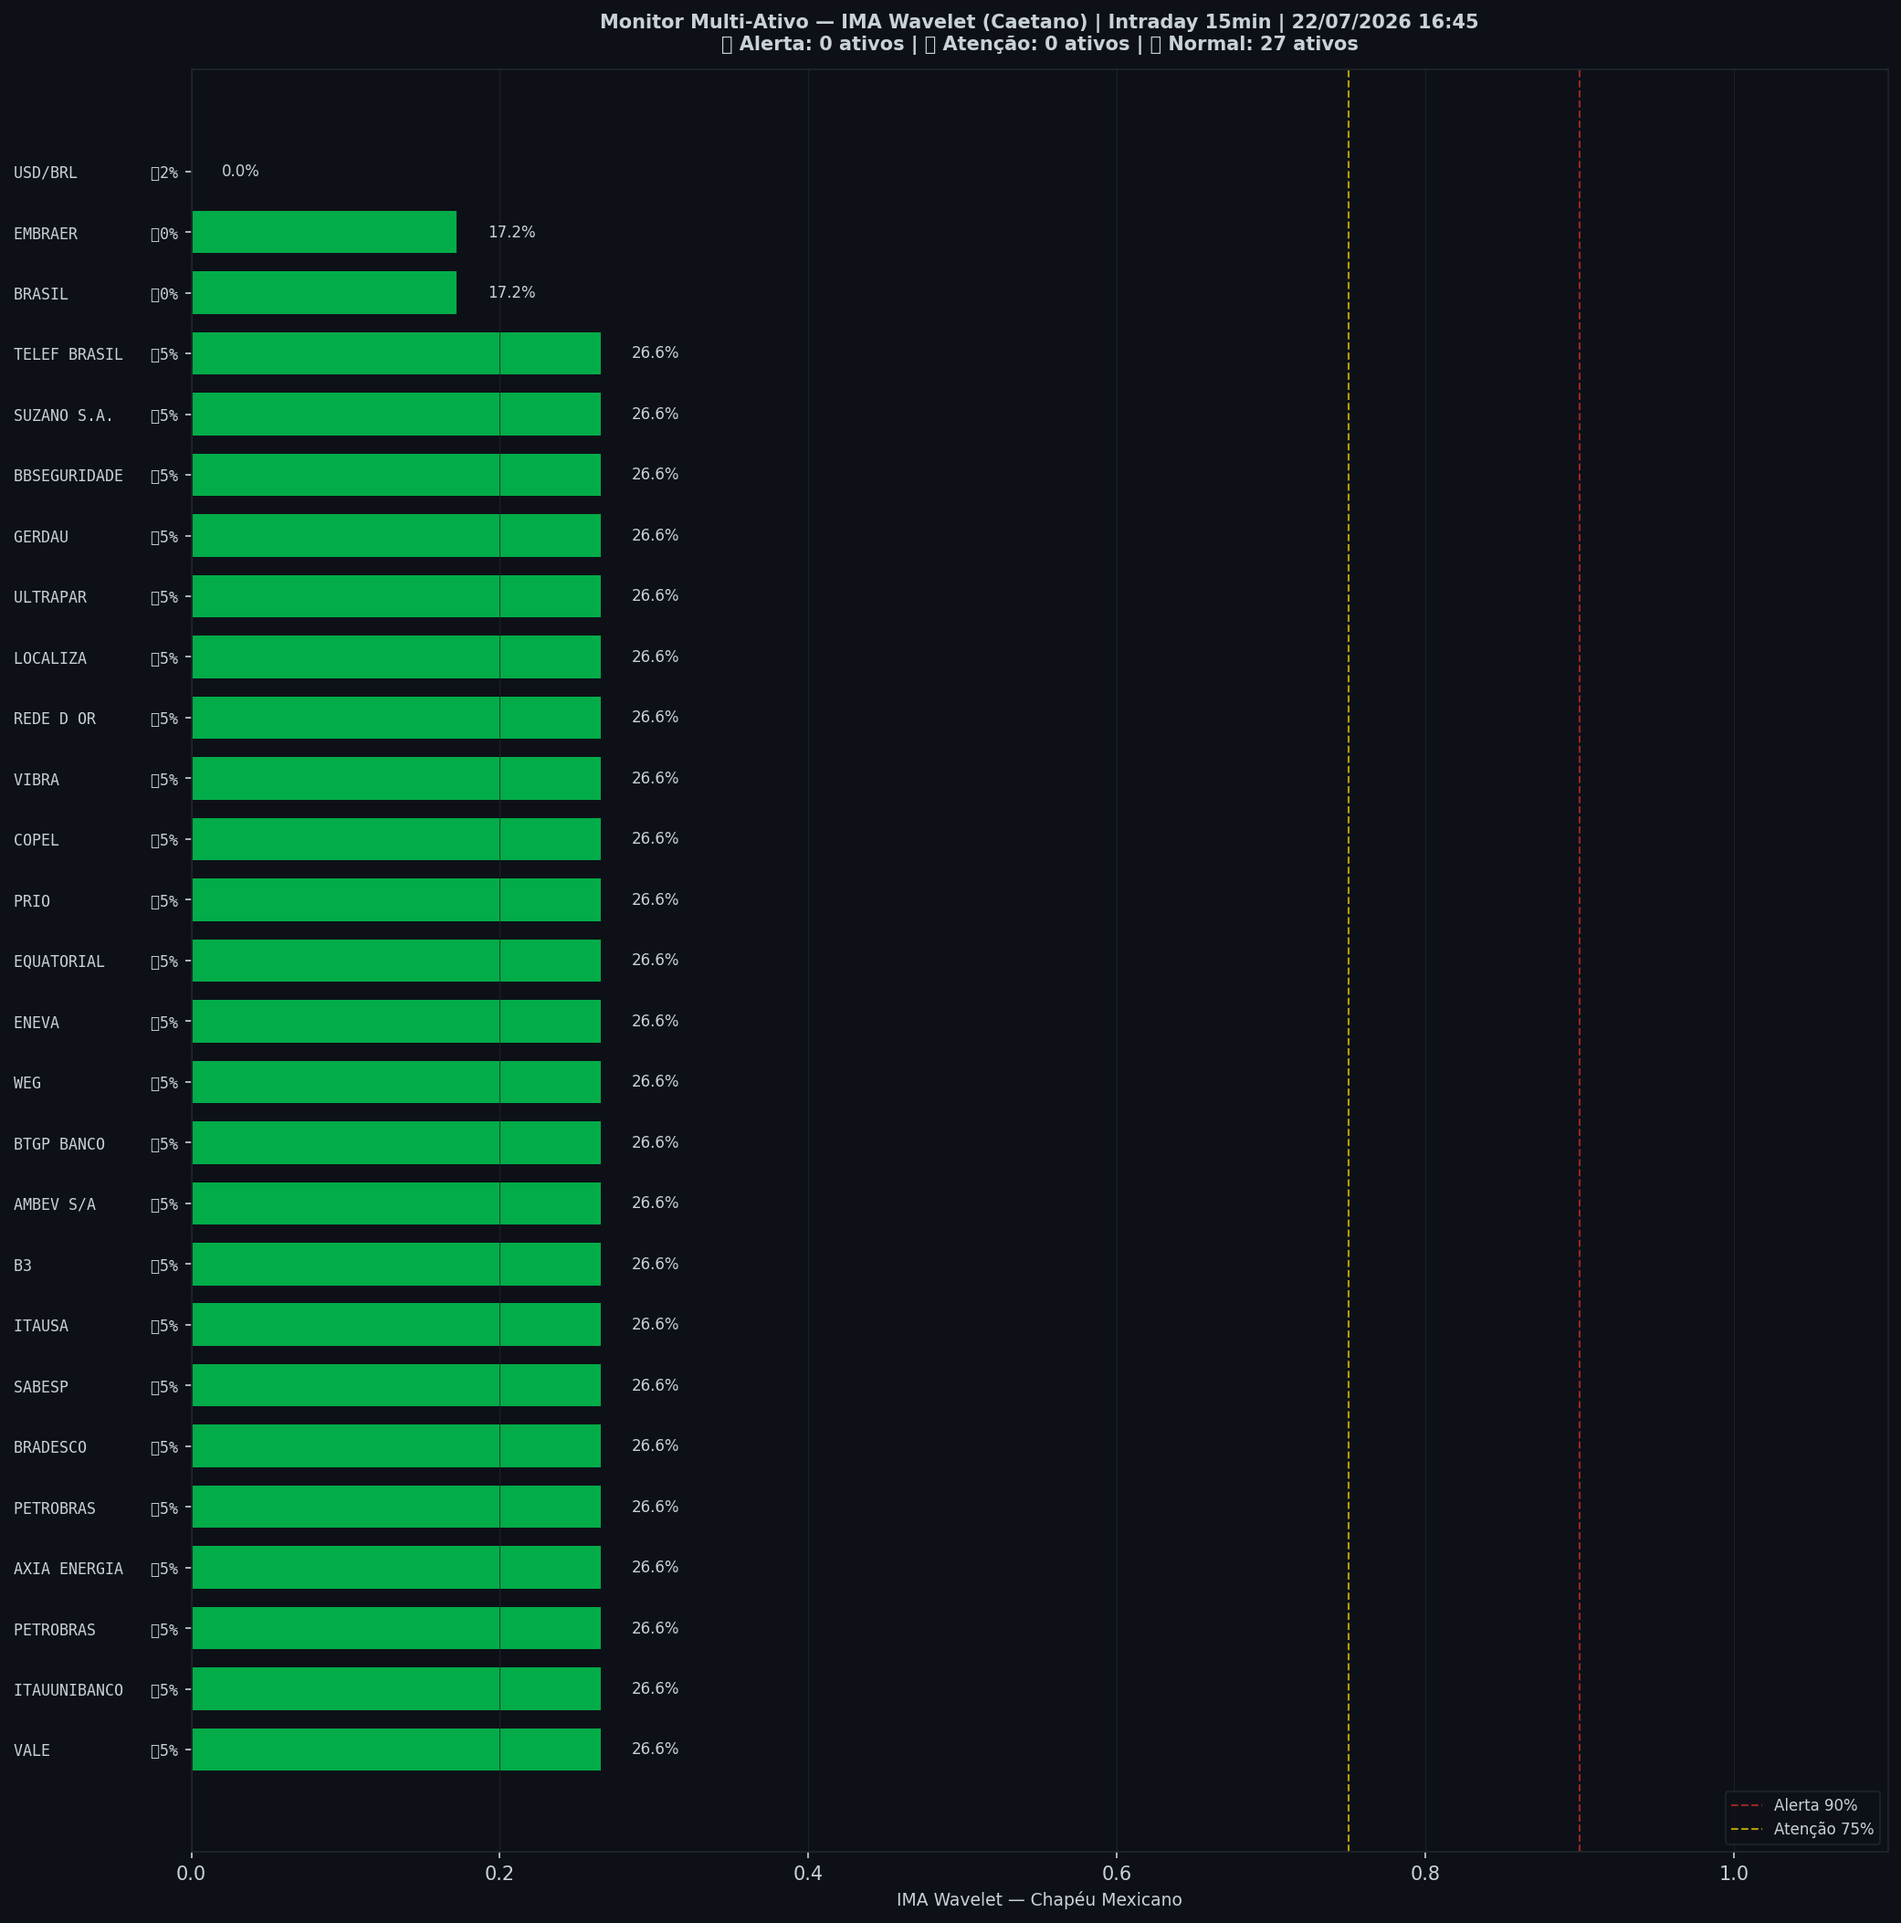
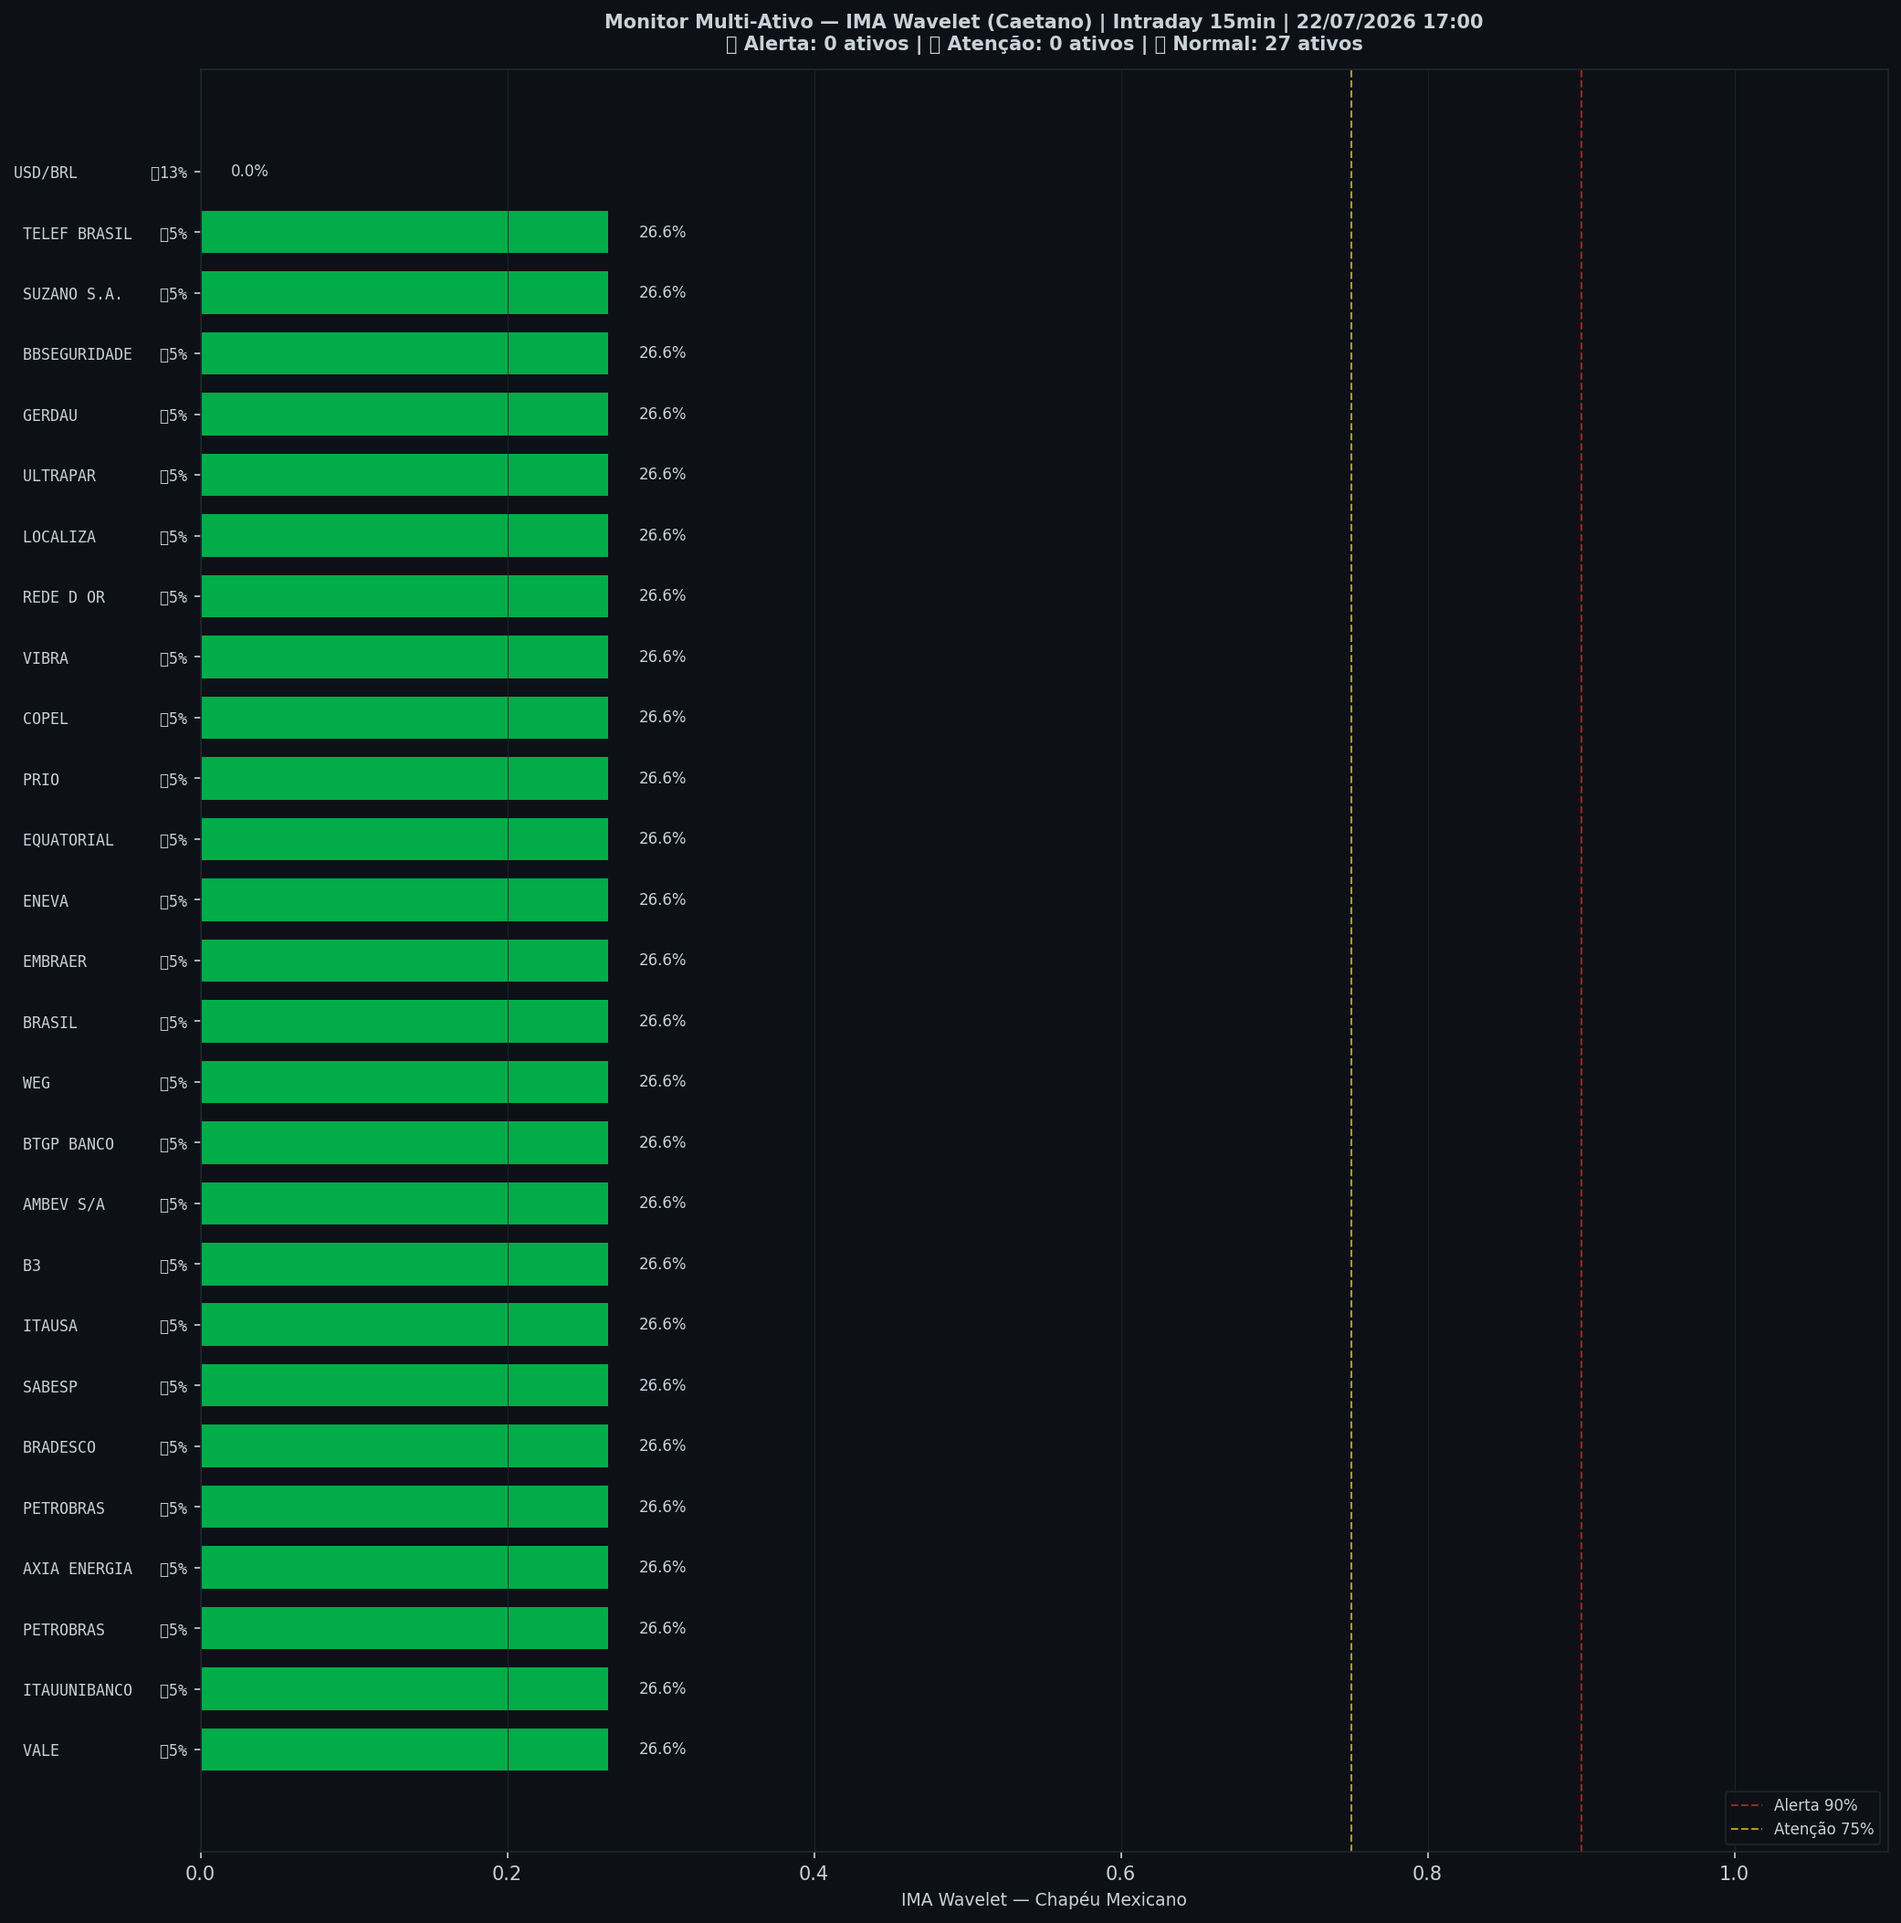
🤖 Auto: Sinal 22/07/2026 17:00

diff --git a/content/intraday/2026-07-22.md b/content/intraday/2026-07-22.md
@@ -1,20 +1,20 @@
 ---
-title: "🔴 Intraday 22/07/2026 16:00 BRT — VERMELHO"
+title: "🔴 Intraday 22/07/2026 16:15 BRT — VERMELHO"
 date: 2026-07-22
 tags: [intraday]
 ---
 
-> [!danger] 🔴 **VERMELHO** — Risco 98% · ▼ -1 p.p. vs leitura anterior
+> [!danger] 🔴 **VERMELHO** — Risco 99% · ▲ +1 p.p. vs leitura anterior
 > `████████████████████`
 > ALERTA DE CRISE — padrão pré-crise detectado.
 
 
 | Indicador | Valor |
 |---|---|
-| 🔴 ζ Crash — severidade da queda em curso | **98%** |
+| 🔴 ζ Crash — severidade da queda em curso | **99%** |
 | 🔵 ζ Entrada — estrutura de fundo | 0% |
 | 🫧 LPPL DS-Confidence | 0% |
-| 📊 Ibovespa | 177.450 pts |
+| 📊 Ibovespa | 177.512 pts |
 
 ![Gráfico do sinal](../graficos/sinal_intraday.png)
 
@@ -22,6 +22,7 @@ tags: [intraday]
 
 | Data | Zona | Risco | IMA Crash | Entrada | LPPL |
 |---|---|---|---|---|---|
+| 2026-07-22 16:15 | 🔴 VERMELHO | **99%** | 99% | 0% | 0% |
 | 2026-07-22 16:00 | 🔴 VERMELHO | **98%** | 98% | 0% | 0% |
 | 2026-07-22 15:45 | 🔴 VERMELHO | **99%** | 99% | 0% | 0% |
 | 2026-07-22 15:30 | 🔴 VERMELHO | **99%** | 99% | 0% | 0% |
@@ -51,7 +52,6 @@ tags: [intraday]
 | 2026-07-21 16:30 | 🟢 VERDE | **0%** | 0% | 0% | 0% |
 | 2026-07-21 16:15 | 🟢 VERDE | **0%** | 0% | 0% | 0% |
 | 2026-07-21 16:00 | 🟢 VERDE | **0%** | 0% | 0% | 0% |
-| 2026-07-21 15:45 | 🟢 VERDE | **0%** | 0% | 0% | 0% |
 
 ## Monitor Multi-Ativo
 
@@ -71,6 +71,8 @@ tags: [intraday]
 | 🟢 | **AMBEV S/A** | Consumo | 26.6% | 4.7% |
 | 🟢 | **BTGP BANCO** | Financeiro | 26.6% | 4.7% |
 | 🟢 | **WEG** | Industrial | 26.6% | 4.7% |
+| 🟢 | **BRASIL** | Financeiro | 26.6% | 4.7% |
+| 🟢 | **EMBRAER** | Outros | 26.6% | 4.7% |
 | 🟢 | **ENEVA** | Energia | 26.6% | 4.7% |
 | 🟢 | **EQUATORIAL** | Energia | 26.6% | 4.7% |
 | 🟢 | **PRIO** | Petróleo | 26.6% | 4.7% |
@@ -83,13 +85,11 @@ tags: [intraday]
 | 🟢 | **BBSEGURIDADE** | Financeiro | 26.6% | 4.7% |
 | 🟢 | **SUZANO S.A.** | Papel/Celulose | 26.6% | 4.7% |
 | 🟢 | **TELEF BRASIL** | Outros | 26.6% | 4.7% |
-| 🟢 | **BRASIL** | Financeiro | 17.2% | 0.0% |
-| 🟢 | **EMBRAER** | Outros | 17.2% | 0.0% |
-| 🟢 | **USD/BRL** | Câmbio | 0.0% | 1.6% |
+| 🟢 | **USD/BRL** | Câmbio | 0.0% | 13.3% |
 
 ![Monitor multi-ativo](../graficos/multi_intraday.png)
 
-*Página atualizada em 22/07/2026 16:45 BRT (leitura da barra de 2026-07-22 16:00 BRT).*
+*Página atualizada em 22/07/2026 17:00 BRT (leitura da barra de 2026-07-22 16:15 BRT).*
 
 > [!info]- Como interpretar (clique para expandir)
 > - **ζ Crash**: fração dos coeficientes wavelet acima do corte (Caetano & Yoneyama 2009). Escala absoluta: ζ=0,90 = 90% dos coeficientes anômalos — historicamente, quedas com ζ≥0,90 foram mais fundas e mais longas. **Mede a severidade do movimento em curso, não prevê o início da queda.**

diff --git a/content/index.md b/content/index.md
@@ -8,19 +8,19 @@ tags: [home]
 
 Monitoramento diário e intraday do Ibovespa — **IMA Wavelet** (Prof. Marco Antonio Leonel Caetano, ITA/INSPER) + **LPPL DS-Confidence** (Prof. Didier Sornette, ETH-Zurich).
 
-*Última atualização: 22/07/2026 16:45 BRT · ^BVSP · Intraday 15min · v4*
+*Última atualização: 22/07/2026 17:00 BRT · ^BVSP · Intraday 15min · v4*
 
-> [!danger] 🔴 **VERMELHO** — Risco 98% · ▼ -1 p.p. vs leitura anterior
+> [!danger] 🔴 **VERMELHO** — Risco 99% · ▲ +1 p.p. vs leitura anterior
 > `████████████████████`
 > ALERTA DE CRISE — padrão pré-crise detectado.
 
 
 | Indicador | Valor |
 |---|---|
-| 🔴 ζ Crash — severidade da queda em curso | **98%** |
+| 🔴 ζ Crash — severidade da queda em curso | **99%** |
 | 🔵 ζ Entrada — estrutura de fundo | 0% |
 | 🫧 LPPL DS-Confidence | 0% |
-| 📊 Ibovespa | 177.450 pts |
+| 📊 Ibovespa | 177.512 pts |
 
 **Multi-ativo:** 0% em tensão (0🔴 0🟡 de 27 ativos)
 
@@ -32,7 +32,7 @@ Monitoramento diário e intraday do Ibovespa — **IMA Wavelet** (Prof. Marco An
 
 | Data | Zona | Risco | IMA | LPPL |
 |---|---|---|---|---|
-| [22 Jul 2026](diario/2026-07-22) | 🔴 VERMELHO | **98%** | 98% | 0% |
+| [22 Jul 2026](diario/2026-07-22) | 🔴 VERMELHO | **99%** | 99% | 0% |
 | [21 Jul 2026](diario/2026-07-21) | 🟢 VERDE | **0%** | 0% | 0% |
 
 ## Navegação

diff --git a/content/historico.md b/content/historico.md
@@ -7,6 +7,7 @@ tags: [historico]
 
 | Data | Modo | Zona | Risco | IMA | LPPL |
 |---|---|---|---|---|---|
+| 2026-07-22 16:15 | intraday | 🔴 VERMELHO | 99% | 99% | 0% |
 | 2026-07-22 16:00 | intraday | 🔴 VERMELHO | 98% | 98% | 0% |
 | 2026-07-22 15:45 | intraday | 🔴 VERMELHO | 99% | 99% | 0% |
 | 2026-07-22 15:30 | intraday | 🔴 VERMELHO | 99% | 99% | 0% |
